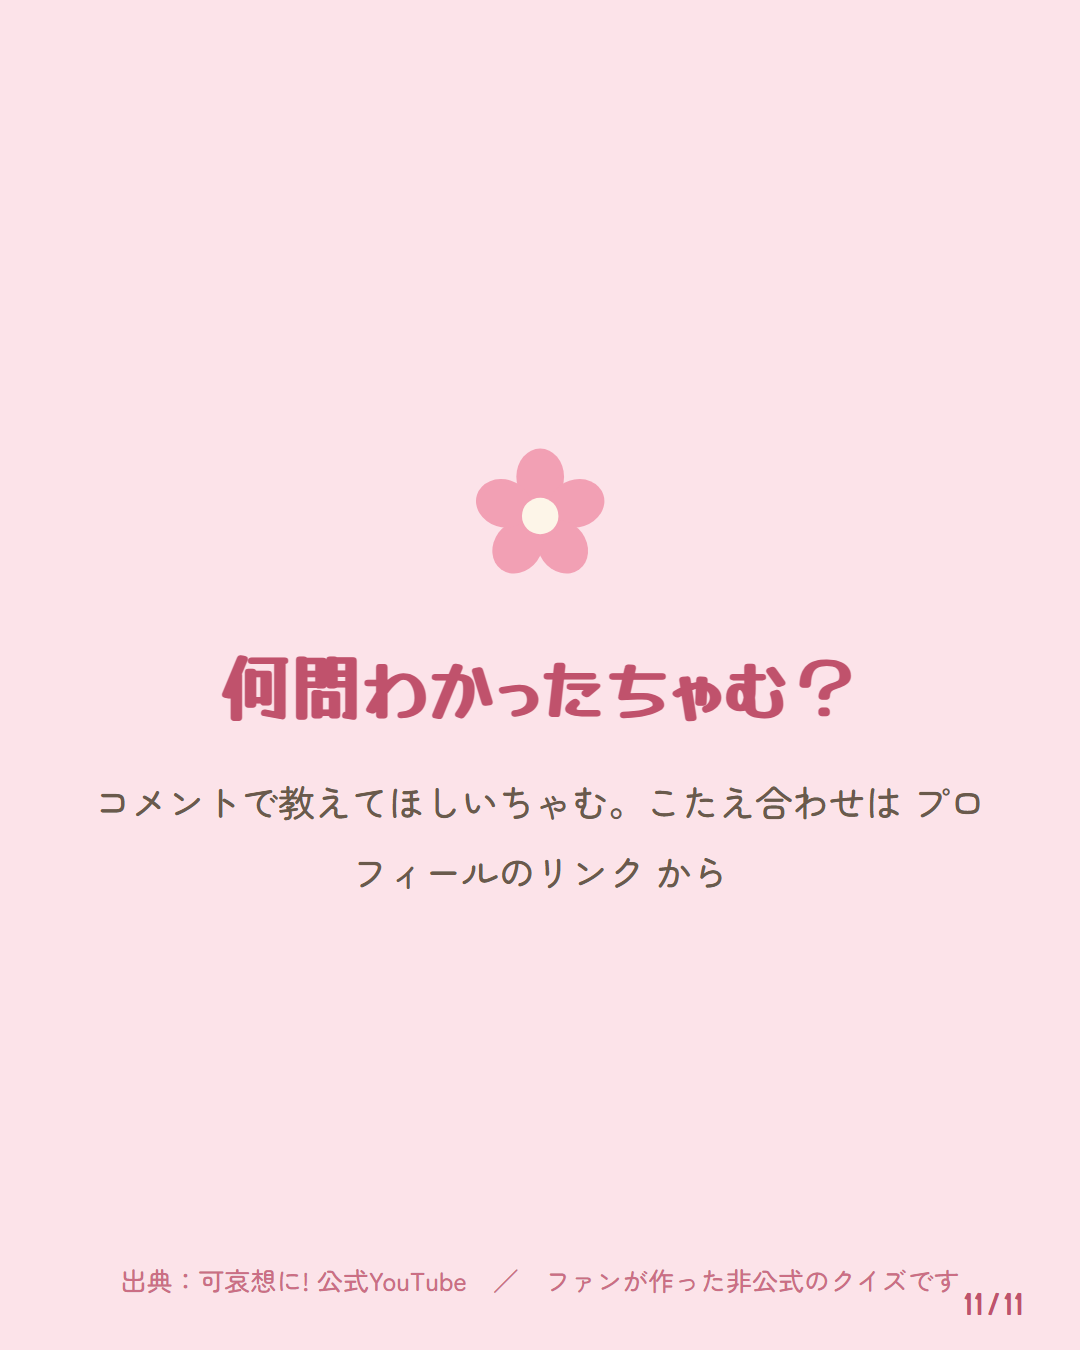
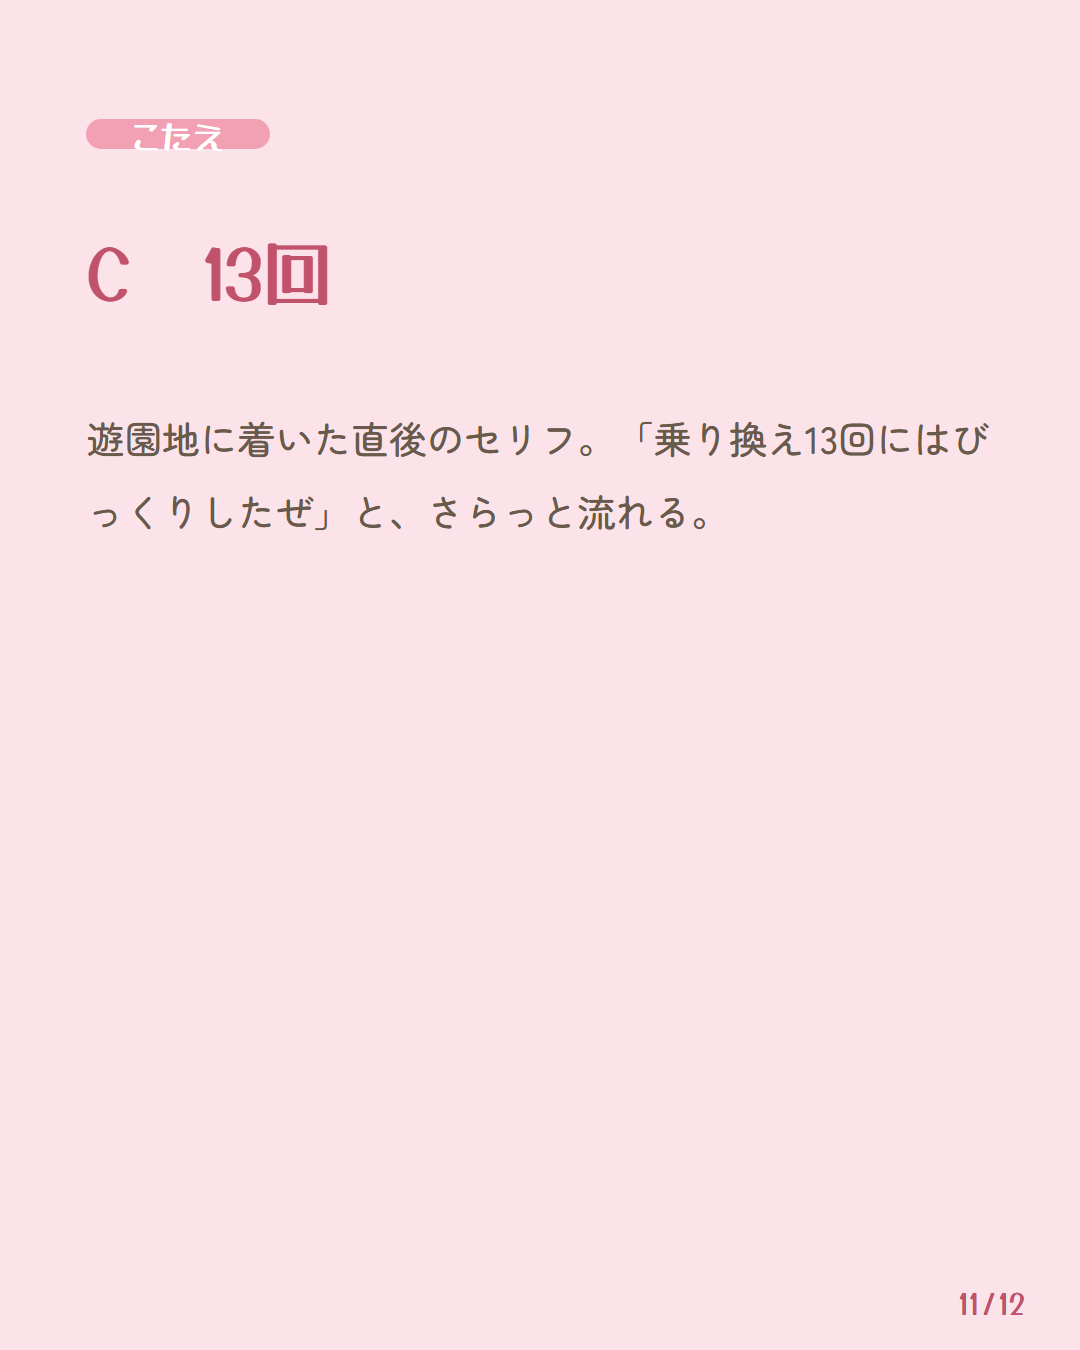
カルーセルで最終問題の答えも見せる（11枚 → 12枚）
Webページを整えてから公開したいため、カルーセルがWebに依存しない形にした。

- スライド種別 finalanswer を追加し、最終問題のこたえを1枚足した
- 締めを「ほかの回のクイズは プロフィールのリンク から」に戻した
- Web版の .reveal（最後の問題のこたえ）を削除
- export_png.sh の枚数をHTMLから自動判定、setup.html も枚数可変に

Claude-Session: https://claude.ai/code/session_018oDEZtFVjs4YXfPkMQh1mW

diff --git a/ちゃむ検定_01_はじまり編.html b/ちゃむ検定_01_はじまり編.html
@@ -224,34 +224,6 @@
   @media (prefers-reduced-motion:reduce){
     *{animation-duration:.01ms !important; animation-iteration-count:1 !important; transition-duration:.01ms !important;}
   }
-  .reveal{
-    background:var(--card);
-    border:2px dashed var(--berry);
-    border-radius:20px;
-    padding:15px 16px;
-    margin:0 0 18px;
-  }
-  .reveal__label{
-    font-size:.76rem; font-weight:900; color:var(--berry-deep);
-    letter-spacing:.04em; margin:0 0 6px;
-  }
-  .reveal__q{font-size:.88rem; margin:0 0 12px; line-height:1.75;}
-  .reveal__note{font-size:.74rem; color:var(--ink-soft);}
-  .reveal details{margin:0;}
-  .reveal summary{
-    list-style:none; cursor:pointer; display:block; text-align:center;
-    background:var(--berry-soft); color:var(--berry-deep);
-    font-weight:700; font-size:.88rem;
-    padding:11px 10px; border-radius:999px;
-  }
-  .reveal summary::-webkit-details-marker{display:none;}
-  .reveal__ans{
-    font-family:"Yusei Magic","Zen Maru Gothic",cursive;
-    font-size:1.5rem; color:var(--berry-deep);
-    text-align:center; margin:14px 0 8px;
-  }
-  .reveal__exp{font-size:.8rem; color:var(--ink-soft); line-height:1.8; margin:0;}
-
 </style>
 
 <div class="stage">
@@ -274,16 +246,6 @@
       <p class="hero__lead">マカロン、ピザ、乗り換えの回数。第1話から第3話まで、全5問・4択ちゃむ。</p>
     </div>
 
-    <section class="reveal">
-      <p class="reveal__label">Instagram で出した、最後の問題のこたえ</p>
-      <p class="reveal__q">第2話、遊園地に着くまでの電車の乗り換えは何回だった？<br>
-        <span class="reveal__note">コメントしてから開いてほしいちゃむ。</span></p>
-      <details>
-        <summary>タップでこたえを見る</summary>
-        <p class="reveal__ans">13回</p>
-        <p class="reveal__exp">遊園地に着いた直後のセリフ。「乗り換え13回にはびっくりしたぜ」と、さらっと流れるちゃむ。<br>出典：んぽちゃむ２（可哀想に! 公式YouTube）</p>
-      </details>
-    </section>
 
     <div class="levels">
       <button class="level level--hard" data-start="hajimari">

diff --git a/setup.html b/setup.html
@@ -183,8 +183,8 @@
 
   <section class="step">
     <span class="step__no">STEP 7</span>
-    <h2>投稿する画像（#01 はじまり編・11枚）</h2>
-    <p class="step__note">第1話から第3話まで。人間チェック済み（2026-09-06）。ここから公開順の束にしていく。</p>
+    <h2>投稿する画像（#01 はじまり編・12枚）</h2>
+    <p class="step__note">第1話から第3話まで。人間チェック済み（2026-09-06）。最後の問題のこたえも入れた12枚。</p>
     <div class="thumbs" id="thumbs3"></div>
   </section>
 
@@ -199,9 +199,9 @@
 (function(){
   "use strict";
 
-  function fillThumbs(boxId, dir){
+  function fillThumbs(boxId, dir, count){
     var box = document.getElementById(boxId);
-    for(var i = 1; i <= 11; i++){
+    for(var i = 1; i <= count; i++){
       var n = (i < 10 ? "0" : "") + i;
       var a = document.createElement("a");
       a.href = dir + n + ".png";
@@ -218,9 +218,9 @@
       box.appendChild(a);
     }
   }
-  fillThumbs("thumbs", "post/korea/");
-  fillThumbs("thumbs2", "post/aiojisan2/");
-  fillThumbs("thumbs3", "post/hajimari/");
+  fillThumbs("thumbs", "post/korea/", 11);
+  fillThumbs("thumbs2", "post/aiojisan2/", 11);
+  fillThumbs("thumbs3", "post/hajimari/", 12);
 
   document.querySelectorAll("[data-copy]").forEach(function(btn){
     btn.addEventListener("click", function(){
